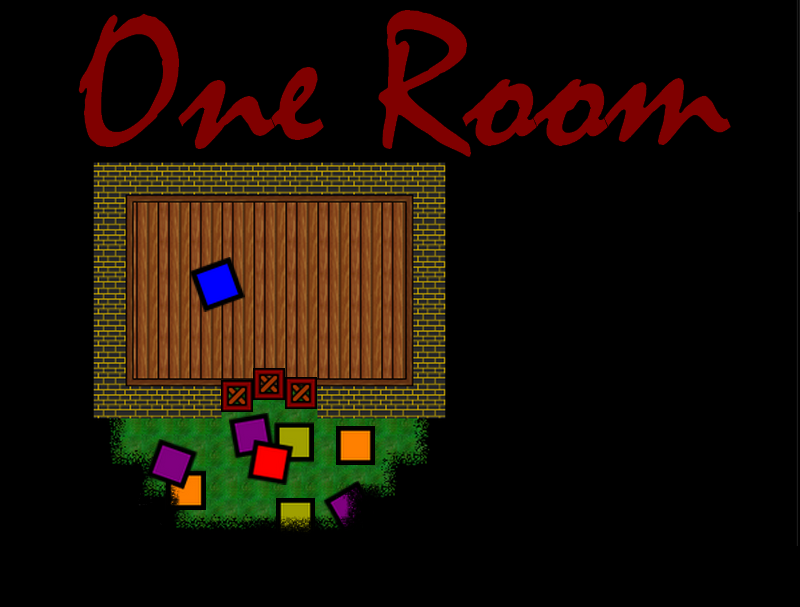
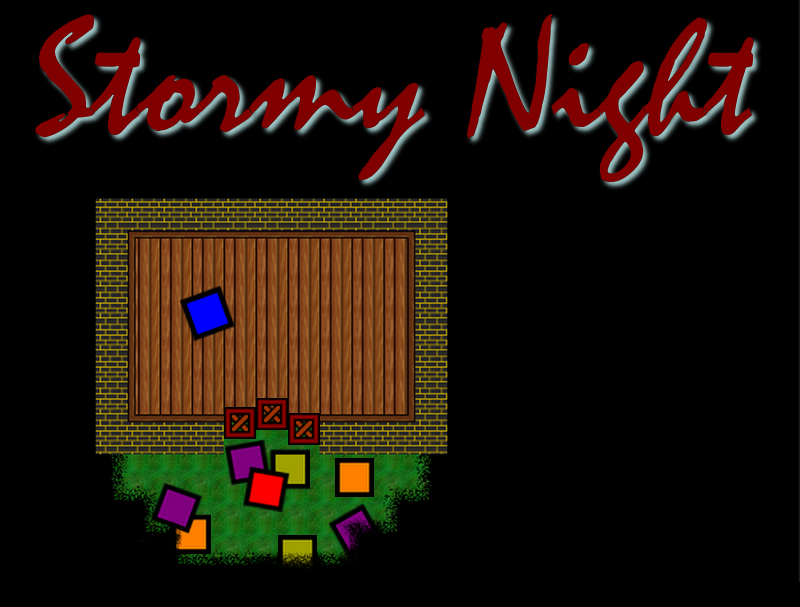
TitleScreen, Clock in shop, sound in shop fixed, map fixed

diff --git a/app/scene/shopScreen/shopScreen.py b/app/scene/shopScreen/shopScreen.py
@@ -162,8 +162,7 @@ class ShopScreen:
             self.sold = False
             self.recreateButton(self.upgradeList['gunCooldown'])
         else:
-            if TAG_MARIE == 1:
-                print('Not enough money')
+            self.soundNotEM.play()
 
     def buyBarricadeCooldown(self):
         self.pay(self.gameData.upgrade['barricadeCooldown'][2])
@@ -173,8 +172,7 @@ class ShopScreen:
             self.sold = False
             self.recreateButton(self.upgradeList['barricadeCooldown'])
         else:
-            if TAG_MARIE == 1:
-                print('Not enough money')
+            self.soundNotEM.play()
 
     def buyGrenadeCooldown(self):
         self.pay(self.gameData.upgrade['grenadeCooldown'][2])
@@ -184,8 +182,7 @@ class ShopScreen:
             self.sold = False
             self.recreateButton(self.upgradeList['grenadeCooldown'])
         else:
-            if TAG_MARIE == 1:
-                print('Not enough money')
+            self.soundNotEM.play()
 
     def buyMineCooldown(self):
         self.pay(self.gameData.upgrade['mineCooldown'][2])
@@ -195,8 +192,7 @@ class ShopScreen:
             self.sold = False
             self.recreateButton(self.upgradeList['mineCooldown'])
         else:
-            if TAG_MARIE == 1:
-                print('Not enough money')
+            self.soundNotEM.play()
 
     def recreateButton(self,item):
         item.attribute = self.gameData.upgrade[item.name][1]

diff --git a/app/sprites/upgrade/upgrade.py b/app/sprites/upgrade/upgrade.py
@@ -88,7 +88,7 @@ class Upgrade(pygame.sprite.Sprite):
         self.textCostPos = [(self.image.get_width()-self.printedCost.get_width())/2,self.interior.bottom-1.5*self.fontSize]
 
         self.iconPos = [(self.image.get_width()-self.icon.get_width())/2, (self.image.get_height()*0.6 - self.icon.get_height()) * 0.5]
-        self.icon2Pos = [self.iconPos[0]+self.icon.get_width()-16, self.iconPos[1]+self.icon.get_height()-16]
+        self.icon2Pos = [self.iconPos[0]+self.icon.get_width()-32, self.iconPos[1]+self.icon.get_height()-32]
 
     def notify(self, event):
         if event.type == pygame.MOUSEBUTTONDOWN:
@@ -101,3 +101,8 @@ class Upgrade(pygame.sprite.Sprite):
         imageSizeY = self.icon.get_height() * resizeSizeX / self.icon.get_width()
 
         self.icon = pygame.transform.scale(self.icon, (int(resizeSizeX), int(imageSizeY)))
+
+        if self.icon2 is not None:
+            resizeSizeX = 48
+            imageSizeY = self.icon2.get_height() * resizeSizeX / self.icon2.get_width()
+            self.icon2 = pygame.transform.scale(self.icon2, (int(resizeSizeX), int(imageSizeY)))

diff --git a/app/gameData.py b/app/gameData.py
@@ -16,15 +16,11 @@ class GameData:
         self.upgrade["grenade"] = ['Level',0,400,1,1.1]
         self.upgrade["mine"] = ['Level',0,900,1,1.1]
         self.upgrade["gunCooldown"] = ['Cooldown', 40, 1, 0.9, 1.1]
-        self.upgrade["barricadeCooldown"] = ['Cooldown', 300, 0.9, 2, 1.2]
+        self.upgrade["barricadeCooldown"] = ['Cooldown', 300, 2, 0.9, 1.2]
         self.upgrade["grenadeCooldown"] = ['Cooldown', 100, 200, 0.9, 1.3]
         self.upgrade["mineCooldown"] = ['Cooldown', 40, 200, 0.9, 1.4]
 
         self.gold = 50
-
-        if TAG_MARIE == 1:
-            self.gold = 50000
-            self.upgrade["barricade"] = ['Level',1,50,1,1.1]
 
         self.maxItemOfAType = 99
 

diff --git a/app/sprites/playerPlatform.py b/app/sprites/playerPlatform.py
@@ -104,9 +104,6 @@ class PlayerPlatform(pygame.sprite.Sprite):
         if TAG_BP == 2:
             self.spriteRED = None
 
-        if TAG_MARIE == 1:
-            self.currentItem = 0
-
         self.inventory = Inventory()
         self.inventory.addItem('gun', self.shootBullet)
         self.inventory.addItem('grenade', self.shootGrenade)
@@ -362,8 +359,6 @@ class PlayerPlatform(pygame.sprite.Sprite):
                     self.barricadeCooldown.start()
 
             else:
-                if TAG_MARIE == 1:
-                    print('cannot put down')
                 barricade.destroy()
 
     def onCollision(self, collidedWith, sideOfCollision,limit=0):

diff --git a/app/mapData.py b/app/mapData.py
@@ -69,7 +69,8 @@ class MapData:
         # FOR DEBUG
         # self.enemyGenListData.addData(120,[1],3,120)
         if TAG_MARIE == 1:
-            self.enemyGenListData.addData(120, [1,2,3,4], 1, 120)
+            pass
+            #self.enemyGenListData.addData(120, [1,2,3,4], 1, 120)
         if TAG_BP == 1:
             # self.enemyGenListData.addData(120, [1], 1, 1200)
             self.enemyGenData(self.currentLevel)

diff --git a/app/sprites/enemy/enemy.py b/app/sprites/enemy/enemy.py
@@ -58,8 +58,6 @@ class Enemy(pygame.sprite.Sprite):
     def dead(self):
         if self.mapData != None:
             self.mapData.gold += self.bounty
-            if TAG_MARIE == 1:
-                print('Gold : ' + str(self.mapData.gold))
 
         self.kill()
 

diff --git a/app/settings.py b/app/settings.py
@@ -115,7 +115,7 @@ COLOR_MENU_FONTS = WHITE
 COLOR_MENU_1 = (41,41,39)
 COLOR_MENU_2 = (142,120,12)
 COLOR_MENU_SELECT_1 = (128,0,0)
-COLOR_MENU_SELECT_2 = WHITE
+COLOR_MENU_SELECT_2 = (204,255,255)
 COLOR_MENU_FONTS_SELECT = WHITE
 
 HUD_FONT_COLOR = WHITE
